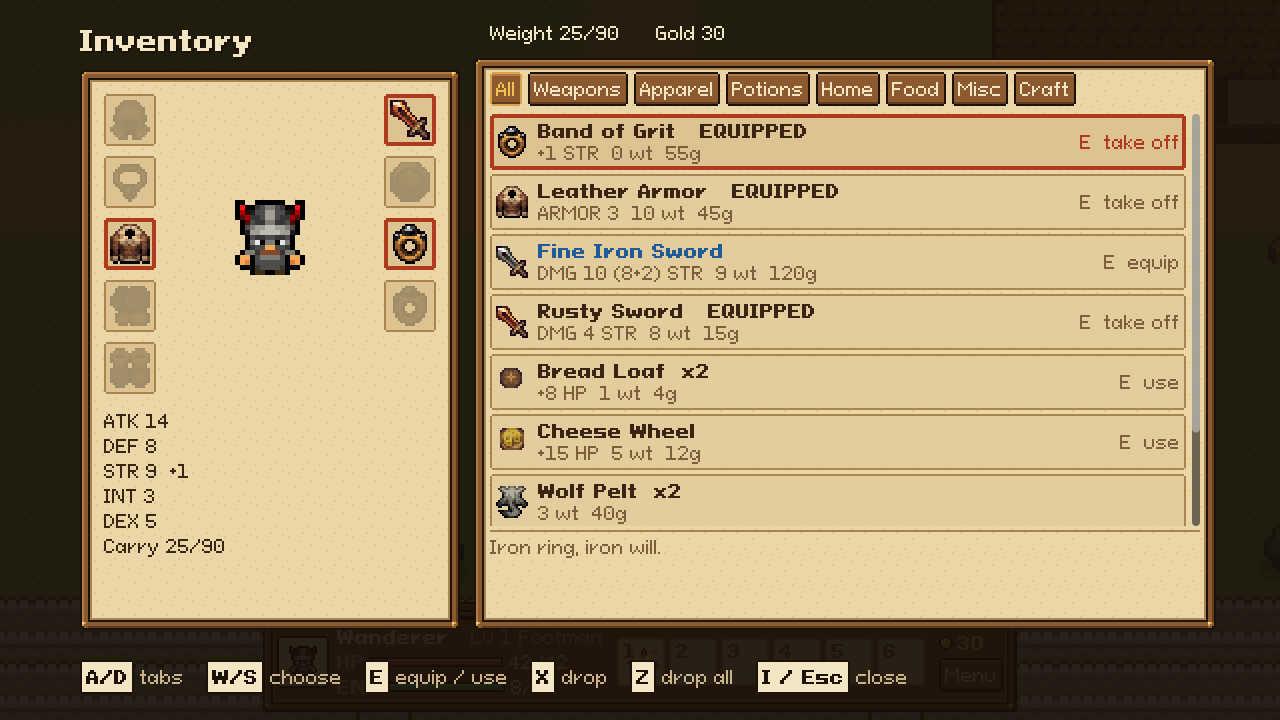
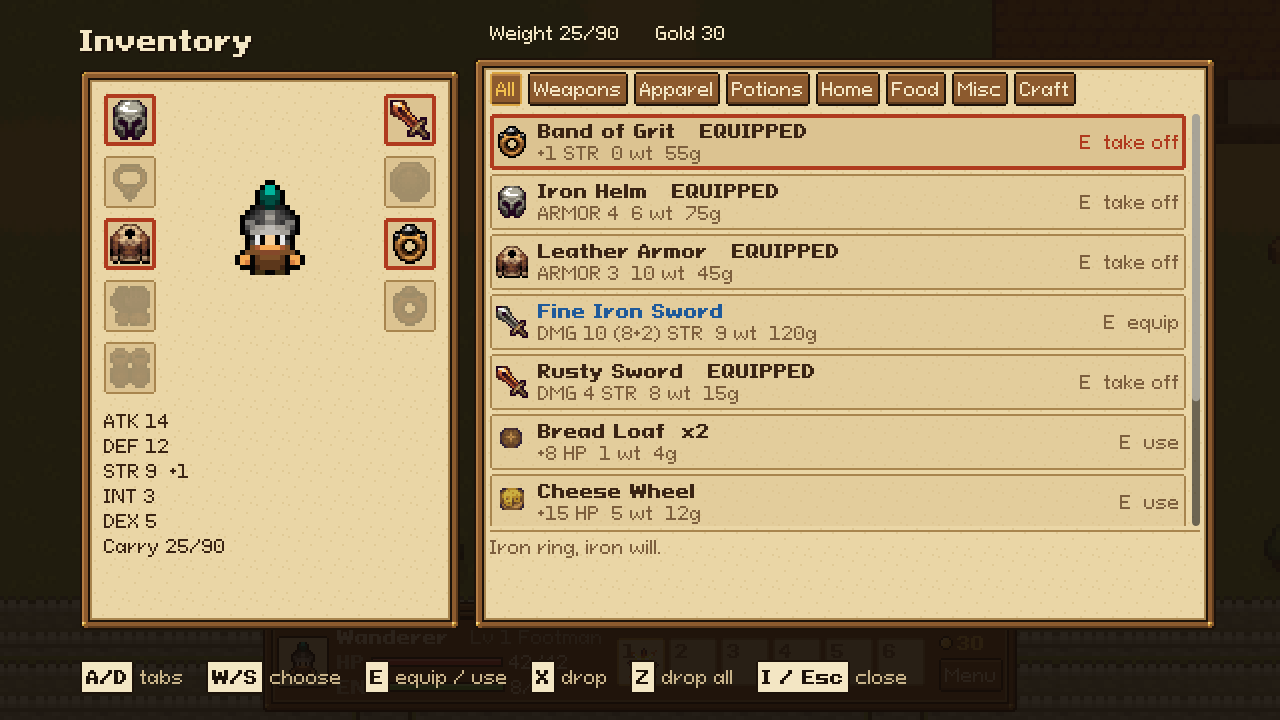
feat: dressed for the climb - worn helmets and armour drawn on the hero (PIX-129): Shade drew every human on one template, so a helmet is another sheet's head and armour another's body, cut at the neck in every frame (PunyArt.dressed, GameState.hero_art); in the world, the dock and the doll as soon 

diff --git a/godot/tools/outfits.py b/godot/tools/outfits.py
@@ -1,0 +1,37 @@
+#!/usr/bin/env python3
+"""Worn-gear looks that Shade's CC0 sheets don't have as drawn (PIX-129),
+made from his own by swapping colours; everything else stays his pixels.
+- Archer-Leather.png: the green archer in leather browns (Leather Cap,
+  Leather Armor).
+- Warrior-Wyrm.png: the horned warrior's helm in blackened steel with gilded
+  horns (Wyrm Visor), so it differs from every warrior's own helm.
+Run from godot/: python3 tools/outfits.py
+"""
+from PIL import Image
+
+LOOKS = {
+    "Archer-Leather": ("Archer-Green", {
+        "303600": "3b2212", "455000": "5c371b", "627105": "7d4f27", "8b9e0f": "a36d38",
+    }),
+    "Warrior-Wyrm": ("Warrior-Red", {
+        "363636": "1c212c", "4d4c4b": "2b3242", "7d7b76": "455168", "a29e96": "66748c", "bebbb5": "8796ae",
+        "290505": "3d2604", "520c0c": "7a4f0e", "ae0000": "c9952f", "ff1515": "f6dc8a",
+    }),
+}
+
+
+def rgb(code: str) -> tuple:
+    return tuple(int(code[i:i + 2], 16) for i in (0, 2, 4))
+
+
+for name, (source, swaps) in LOOKS.items():
+    table = {rgb(a): rgb(b) for a, b in swaps.items()}
+    sheet = Image.open(f"assets/puny/characters/{source}.png").convert("RGBA")
+    pixels = sheet.load()
+    for y in range(sheet.height):
+        for x in range(sheet.width):
+            r, g, b, a = pixels[x, y]
+            if a and (r, g, b) in table:
+                pixels[x, y] = table[(r, g, b)] + (a,)
+    sheet.save(f"assets/puny/characters/{name}.png")
+    print(f"assets/puny/characters/{name}.png")

diff --git a/docs/godot-parity.md b/docs/godot-parity.md
@@ -43,7 +43,6 @@ This is where each web feature stands in Godot.
 | Web feature                                | Status                                                                                            |
 | ------------------------------------------ | ------------------------------------------------------------------------------------------------- |
 | Mini-map in the corner of the world screen | Not ported; the world map (M) covers it                                                           |
-| Worn gear drawn on the hero                | The hero is the role's Puny sheet; new armor or a weapon changes nothing you can see in the world |
 | Touch controls                             | No virtual stick; the web export needs a keyboard or a gamepad                                    |
 
 ## E2E spec by spec
@@ -94,7 +93,7 @@ Each test of the web game's Playwright suite (`e2e/*.spec.ts`), and where it sta
 | options         | options opens in-game from the gear button and scanlines toggle applies        | ported    | The scanlines toggle in `options_screen.gd` applies through `world.gd`. It's reached through Esc > Options; the HUD has no gear button                                                                       |
 | options         | deleting the save requires a confirm and clears Continue                       | deviation | There are three slots. The Saves screen clears a slot only on a second X press, and never the slot in play, so Continue never disappears (`test_save_slots.gd::test_the_slot_in_play_cannot_be_cleared`)     |
 | paperdoll       | the paper doll shows every slot and the worn weapon                            | ported    | Nine slots in `inventory_screen.gd`, with ATK in the doll's numbers. Also `test_inventory.gd::test_gear_goes_on_in_its_slot_and_comes_off`                                                                   |
-| paperdoll       | the outfit is drawn into the hero, and changes when the gear does              | missing   | The hero is the role's Puny sheet in the chosen look. Worn gear is never drawn on it                                                                                                                         |
+| paperdoll       | the outfit is drawn into the hero, and changes when the gear does              | ported    | Helmets and armour from Shade's own sheets, cut at the neck (`PunyArt.dressed`, PIX-129): in the world, the dock and the doll, the moment they go on. Also `test_outfit.gd` |
 | paperdoll       | rings fill finger by finger and the stats panel feels it                       | ported    | `test_inventory.gd::test_rings_fill_the_empty_finger_first`. Gear bonuses show on the doll, and clicking a worn piece takes it off                                                                           |
 | paths           | crossing a rank offers the path fork inside the cinematic                      | ported    | `test_ranks.gd::test_crossing_a_rank_sends_the_ascension_once`. The fork cards are in `rankup_screen.gd`; the `rankup` release flow                                                                          |
 | pause           | Escape pauses, blocks input, and quit-to-title resumes in place                | ported    | The pause menu stops the world (`pause_screen.gd`). Quit to title saves first, and Continue resumes in the same spot                                                                                         |

diff --git a/README.md b/README.md
@@ -6,7 +6,7 @@
 
 <p align="center">
   <b>A retro pixel-art open-world RPG in Godot 4.7: one hero, one village, fifteen floors of a mountain and what lies under it.</b><br />
-  Fifteen floors. Two bosses. Infinite cheese wheels. Currently v0.77 - 1.0 has to be earned.
+  Fifteen floors. Two bosses. Infinite cheese wheels. Currently v0.78 - 1.0 has to be earned.
 </p>
 
 ---
@@ -24,7 +24,7 @@ You wake in Pixelheim village, in an open world called **the Ashenreach**: walk 
 - **One hand-drawn world**: hero, villagers, monsters, terrain and dungeons in Shade's Puny art; the town's timber houses, its wells, fountain, torches and fences, and the rooms behind its doors from his Medieval Age set
 - **Real-time fights**: monsters prowl in packs and hunt you; swing, cast your skills on the number keys, and watch the ailments land - on the same numbers the game has always used
 - **7 classes that ascend**: every 5 levels a rank and its aura, and from the first rank a path that forks into 14 identities, each with a signature skill
-- **Skill trees, stats and gear**: three named paths per class, stat points that explain themselves, loot with rarities on a nine-slot paper doll
+- **Skill trees, stats and gear**: three named paths per class, stat points that explain themselves, loot with rarities on a nine-slot paper doll, and helmets and armour you can see on your hero
 - **Quests and the journal**, the **codex** of every beast you have fought, and mastery bonuses for the families you hunt
 - **A town that grows**: buy the house and furnish it, buy the shops and collect rent, fund the village into a city, bank and send caravans, recruit settlers from the wilds
 - **Crafting** at the forge, the cauldron and your own workbench; foraging in the wilds
@@ -97,7 +97,7 @@ Pixelheim began as a React + TypeScript + PixiJS game in the browser, with a pur
 - [x] Skill trees, ranks and paths
 - [x] Music, ambience and sound
 - [x] The move to Godot, with one artist for the whole world
-- [ ] Worn gear drawn on the hero
+- [x] Worn gear drawn on the hero
 - [ ] Touch controls for phones
 - [ ] More regions beyond the Ashenreach
 - [ ] 1.0, eventually - it has to be earned

diff --git a/.claude/skills/pixelheim-godot/SKILL.md b/.claude/skills/pixelheim-godot/SKILL.md
@@ -69,6 +69,7 @@ python3 godot/tools/favicon.py   # redraw the game's icon (assets/icon.png)
 
 - Characters are Shade's Puny family at 1x (PIX-130): `PunyArt` maps roles, villagers and species to sheets. Row orders differ per family: Puny Characters turn clockwise (down 0, right 2, up 4, left 6), PunyMonsters the other way (left 2, right 6), Mini World rows are down/up/left/right. Check any new sheet with `--screenshot lineup` before trusting a direction.
 - A new villager sprite id or monster species needs a `PunyArt` entry; `test_puny_art` fails otherwise.
+- **The hero is drawn dressed (PIX-129)**: always get the hero's spec from `GameState.hero_art()` (never `PunyArt.hero` for the player), which swaps in a worn helmet's head and armour's body from other Puny Characters sheets (`PunyArt.HEADS`/`BODIES`; they share one template, the head is the figure's top 7 rows). A new head or body item needs an entry there; a look Shade didn't draw is a colour swap of one of his sheets in `godot/tools/outfits.py`. Check outfits with `--screenshot --map town --wear iron_helm,iron_armor`.
 - The world is Shade's Puny World (`PunyTerrain`): corner wang tiles from his `.tsx` on the **dual grid** (layer shifted half a tile up-left, one tile per cell corner), so terrain edges sit on collision edges. Shade pairs terrains only with grass; `STRENGTH` settles other meetings. The tile layer only puts an invisible blocker on unwalkable cells (and the ruins' stone outdoors). A new ground tile id goes in `GROUND_TILES` and `PunyTerrain.GROUND`.
 - `TileSetAtlasSource` animation separation counts **tiles**, not pixels; Puny water frames sit 2-4 rows apart and may overlap other tiles' strips, so `PunyTerrain._slot` opens a new source on the same sheet when one is full.
 - In a `canvas_item` shader, `COLOR` in `fragment()` already holds texel × modulate; sampling `TEXTURE` again squares it (everything goes dark).
